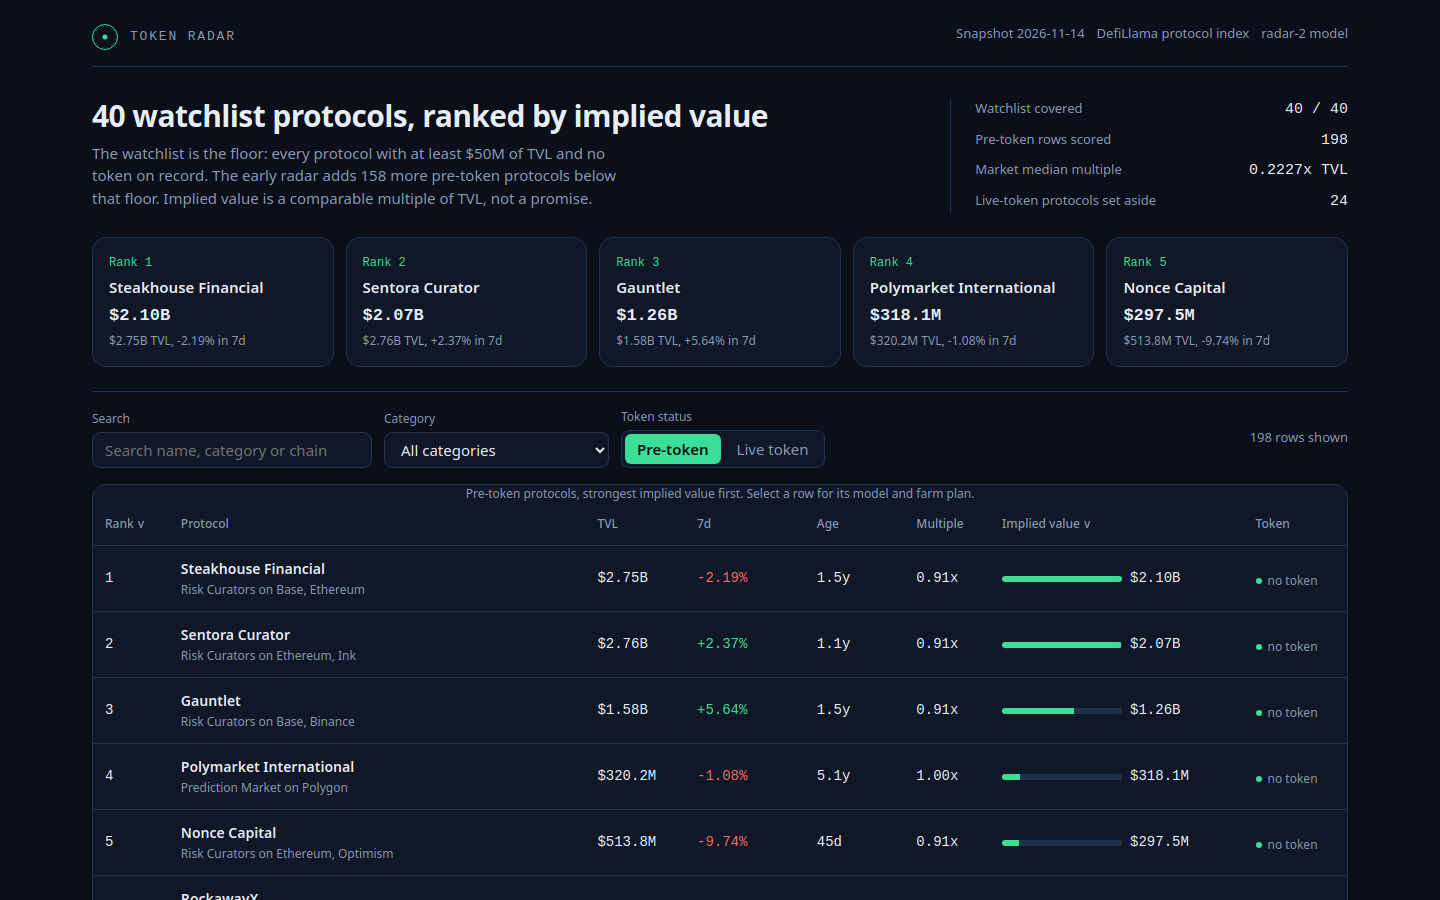
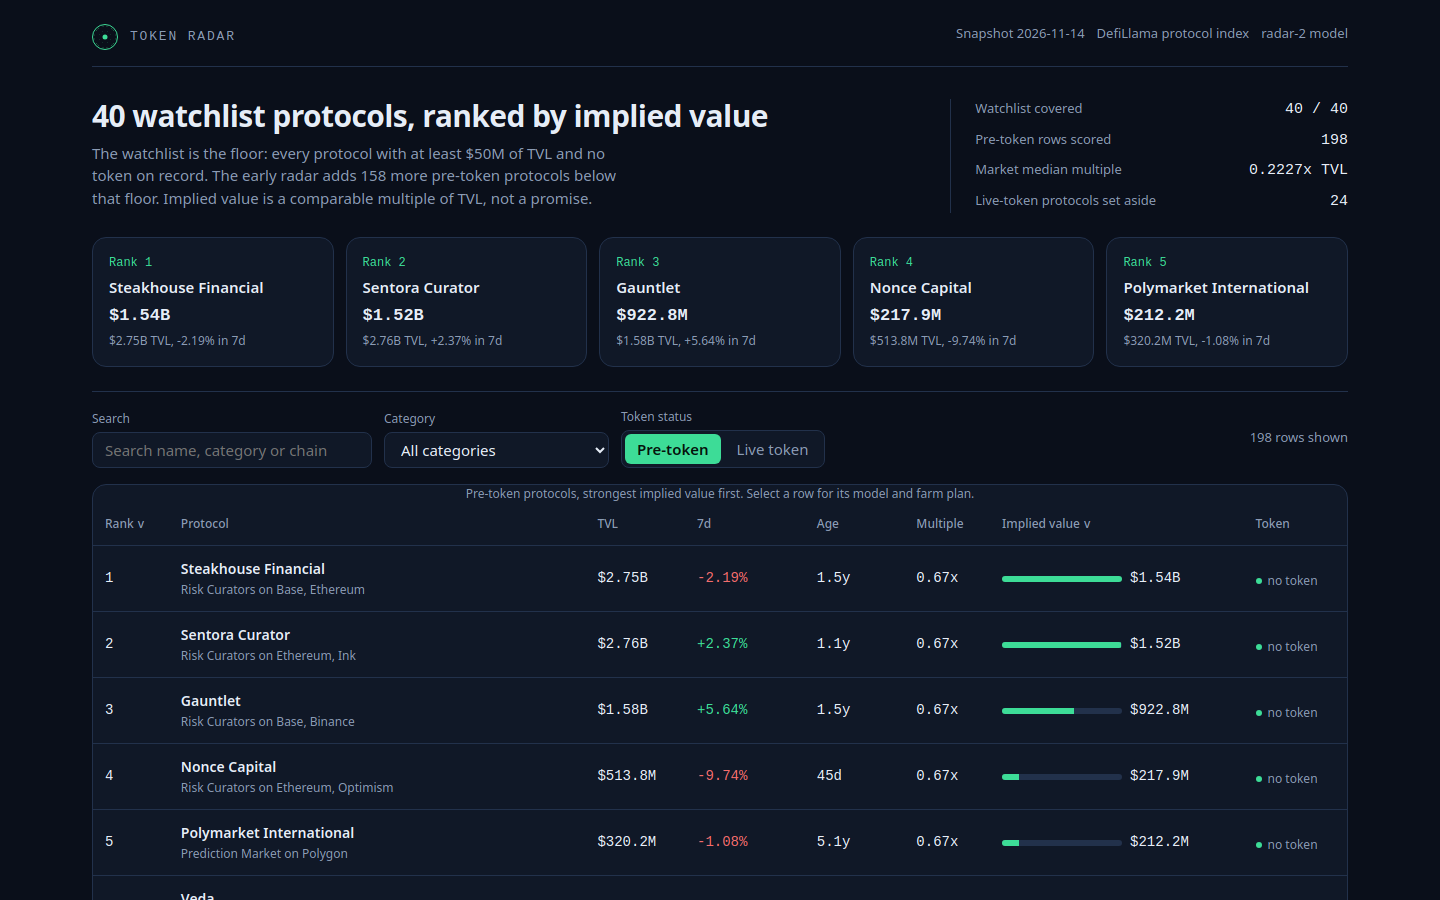
Revised entrypoint with --verify + top-5 summary; model median cap; screenshots match the final board

diff --git a/main.ts b/main.ts
@@ -81,9 +81,27 @@ for (const name of shots) {
 }
 
 // The dossier is written last: the scorer rebuilds it from this /output and compares bytes.
-writeFileSync(join(out, 'dossier.json'), buildDossier(out, { text_max_bytes: TEXT_MAX_BYTES, screenshots: SCREENSHOT_CAPS, dashboard: { max_files: 400, max_bytes: 4_194_304 } }));
+const dossierBytes = buildDossier(out, { text_max_bytes: TEXT_MAX_BYTES, screenshots: SCREENSHOT_CAPS, dashboard: { max_files: 400, max_bytes: 4_194_304 } });
+writeFileSync(join(out, 'dossier.json'), dossierBytes);
 
+// --verify re-reads what was written and rebuilds the dossier from it: the entry must be able to
+// prove its own dossier matches, the same comparison the scorer makes, before it is handed in.
+if (process.argv.includes('--verify')) {
+  const rebuilt = buildDossier(out, { text_max_bytes: TEXT_MAX_BYTES, screenshots: SCREENSHOT_CAPS, dashboard: { max_files: 400, max_bytes: 4_194_304 } });
+  const written = readFileSync(join(out, 'dossier.json'));
+  if (!Buffer.from(rebuilt).equals(written)) {
+    process.stderr.write('token radar: --verify: dossier.json does not match a rebuild from the output\n');
+    process.exit(1);
+  }
+  process.stdout.write(`token radar: --verify: dossier.json matches a rebuild (${written.length} bytes)\n`);
+}
+
+const top5 = board
+  .slice(0, 5)
+  .map((r) => `  #${r.rank} ${r.slug} $${r.implied_value_usd.toLocaleString('en-US')}`)
+  .join('\n');
 process.stdout.write(
   `token radar: ${snapshot.protocols.length} protocols, ${snapshot.watchlist.length} on the watchlist, ${board.length} rows scored (${radar.early_size} early, ${radar.live_size} live set aside)\n` +
+    `token radar: top 5 by implied value:\n${top5}\n` +
     `token radar: wrote ${join(out, 'board.json')}, ${join(out, 'data.js')}, ${join(out, 'dashboard')} (3 files), ${join(out, 'screenshots')} (${shots.length} images) and ${join(out, 'dossier.json')}\n`,
 );

diff --git a/lib/model.ts b/lib/model.ts
@@ -251,7 +251,9 @@ export function computeMultiples(snapshot: Snapshot, model: ModelConstants = MOD
   const global = allRatios.length > 0 ? median(allRatios) : 0.25;
   const byCategory = new Map<string, { multiple: number; comparables: number; medianRatio: number }>();
   for (const [category, ratios] of ratiosByCategory) {
-    const catMedian = median(ratios);
+    // A category median above 2x is one live token's quirk (a tiny TVL with a large cap), not a
+    // comparable: cap the median before blending so a single outlier cannot set the multiple.
+    const catMedian = Math.min(2, median(ratios));
     const n = ratios.length;
     // Shrinkage: a category with few live comparables leans on the market median.
     const blended = (n * catMedian + model.shrink_prior * global) / (n + model.shrink_prior);
